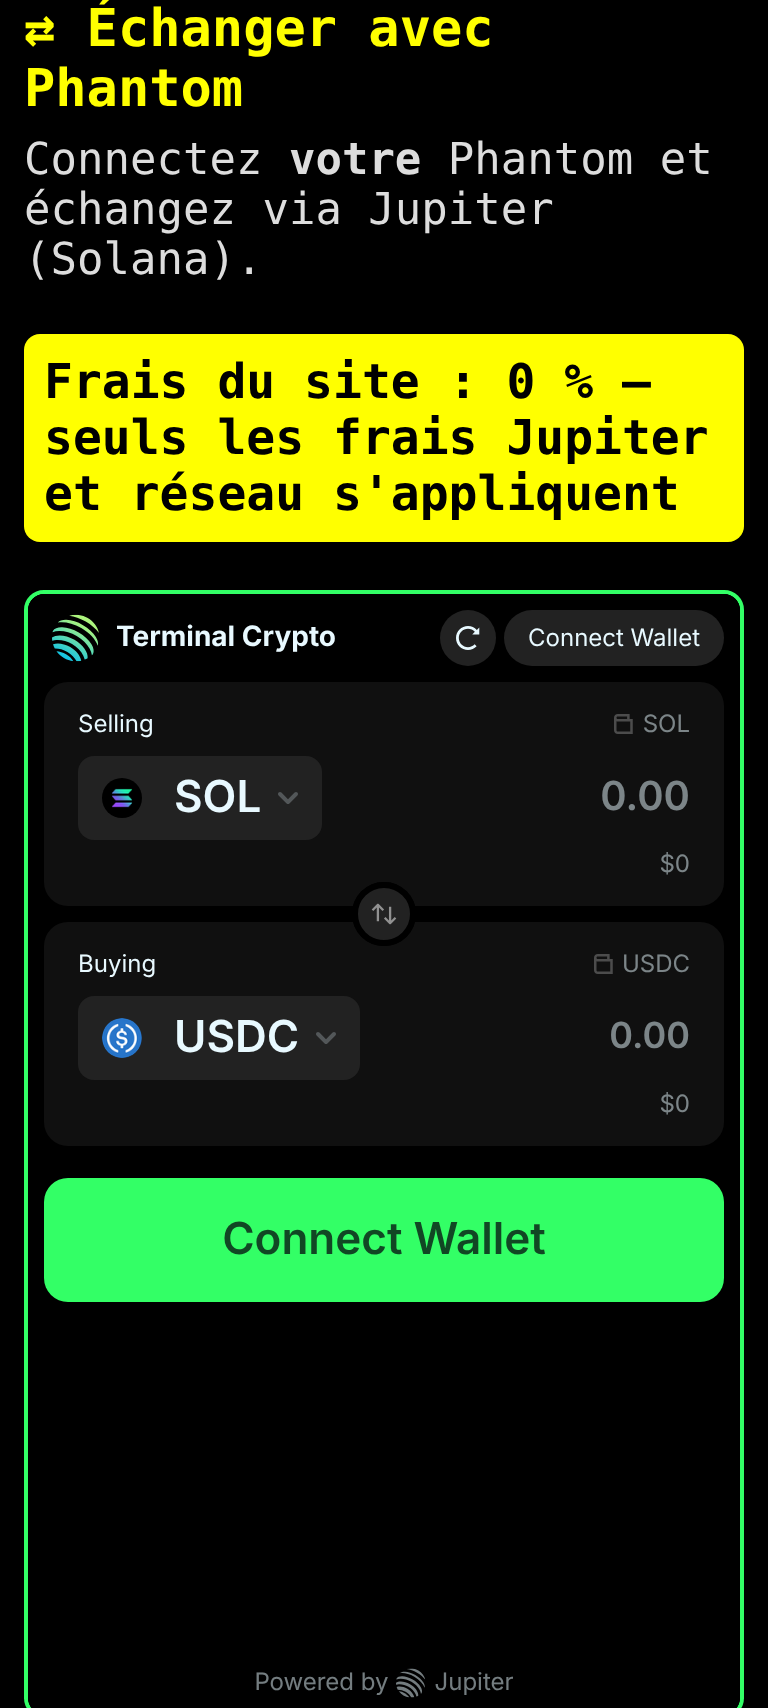
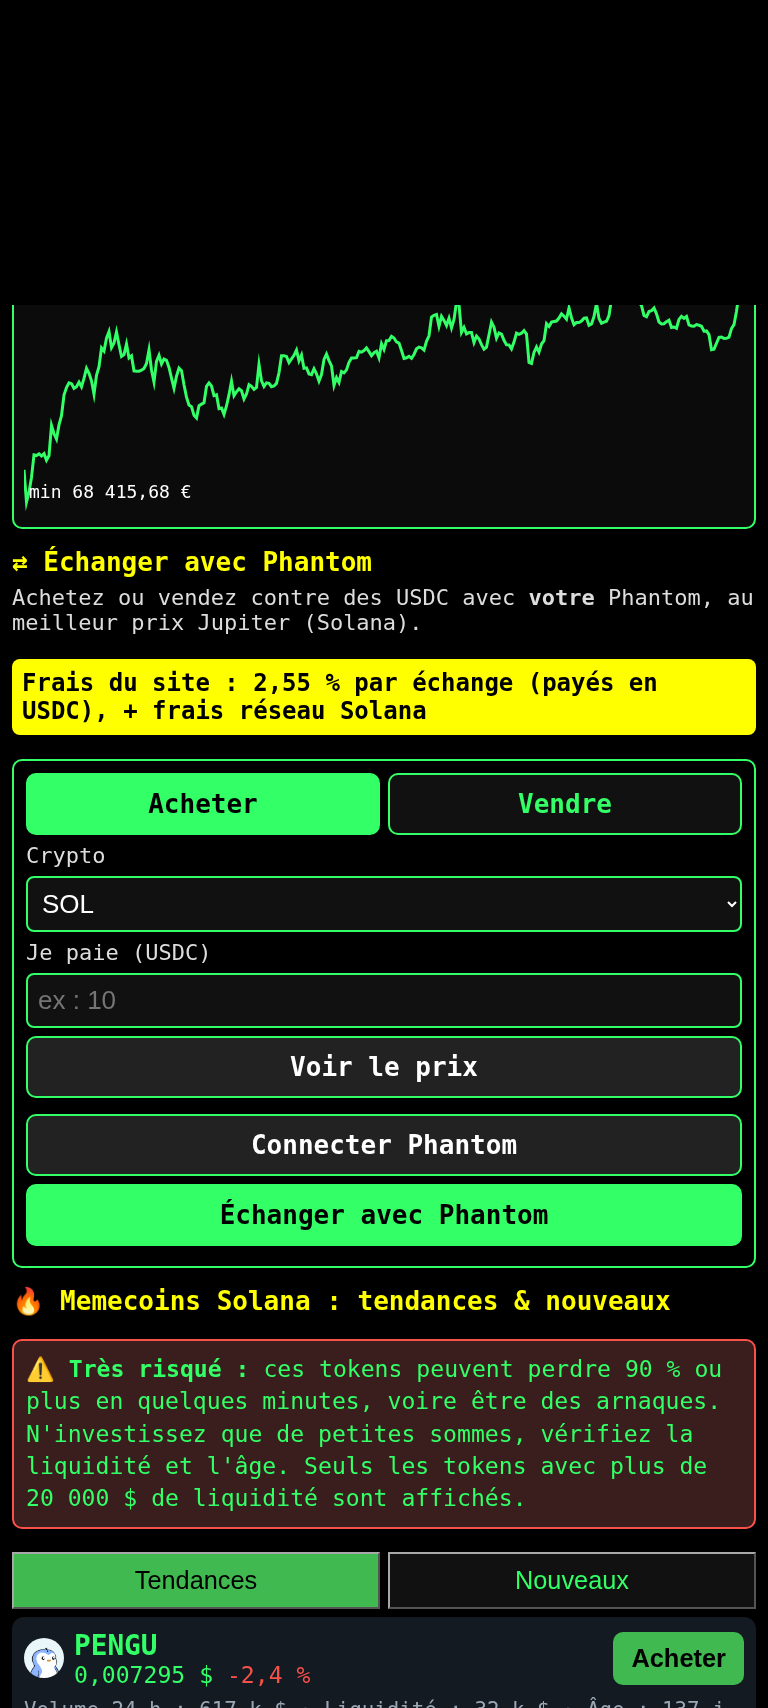
Memecoins Solana: tendances et nouveaux, achat via swap avec frais

diff --git a/memes.js b/memes.js
@@ -1,0 +1,18 @@
+(function(){
+const $=id=>document.getElementById(id),EXCL=["SOL","USDC","USDT","WSOL"];
+const fmt=n=>n>=1e9?(n/1e9).toFixed(1)+" Md $":n>=1e6?(n/1e6).toFixed(1)+" M $":n>=1e3?(n/1e3).toFixed(0)+" k $":n.toFixed(0)+" $";
+const px=n=>n<0.0001?n.toExponential(2):n.toLocaleString("fr-FR",{maximumFractionDigits:n<1?6:2});
+function age(t){const h=(Date.now()-new Date(t))/36e5;return h<1?Math.round(h*60)+" min":h<48?Math.round(h)+" h":Math.round(h/24)+" j"}
+async function charge(type){$("memeListe").textContent="Chargement…";
+ try{const d=await(await fetch(`https://api.geckoterminal.com/api/v2/networks/solana/${type}?include=base_token`)).json();
+ const tk={};(d.included||[]).forEach(t=>tk[t.id]=t.attributes);const vus=new Set();
+ const L=d.data.map(p=>({a:p.attributes,t:tk[p.relationships.base_token.data.id]})).filter(x=>x.t&&+x.a.reserve_in_usd>=20000&&!EXCL.includes(x.t.symbol.toUpperCase())&&!vus.has(x.t.address)&&vus.add(x.t.address)).slice(0,15);
+ if(!L.length){$("memeListe").textContent="Aucun token avec assez de liquidité pour l'instant.";return}
+ $("memeListe").innerHTML=L.map((x,i)=>{const c=+x.a.price_change_percentage.h24;const s=x.t.symbol.replace(/[<>"&]/g,"");
+  return `<div class="meme">${x.t.image_url&&x.t.image_url!=="missing.png"?`<img src="${x.t.image_url}" alt="">`:""}<div class="nm"><b>${s}</b><br>${px(+x.a.base_token_price_usd)} $ <span class="${c>=0?"up":"dn"}">${c>=0?"+":""}${c.toLocaleString("fr-FR",{maximumFractionDigits:1})} %</span></div><button data-i="${i}">Acheter</button><div class="st">Volume 24 h : ${fmt(+x.a.volume_usd.h24)} · Liquidité : ${fmt(+x.a.reserve_in_usd)} · Âge : ${age(x.a.pool_created_at)}</div></div>`}).join("");
+ $("memeListe").querySelectorAll("button").forEach(b=>b.onclick=()=>{const x=L[b.dataset.i];window.ajouterJeton&&window.ajouterJeton(x.t.symbol,x.t.address,x.t.decimals)});
+ }catch(e){$("memeListe").textContent="Données indisponibles, réessayez dans un instant."}}
+$("mTend").onclick=()=>{$("mTend").classList.add("on");$("mNew").classList.remove("on");charge("trending_pools")};
+$("mNew").onclick=()=>{$("mNew").classList.add("on");$("mTend").classList.remove("on");charge("new_pools")};
+charge("trending_pools");
+})();

diff --git a/index.html b/index.html
@@ -29,9 +29,13 @@
 <button id="devisBtn" class="gris">Voir le prix</button><div id="devis"></div>
 <button id="connect" class="gris">Connecter Phantom</button>
 <button id="echanger" class="vert">Échanger avec Phantom</button><div id="swapMsg"></div></div></section>
+<section id="memes"><h2>🔥 Memecoins Solana : tendances & nouveaux</h2>
+<p class="alerte">⚠ <b>Très risqué :</b> ces tokens peuvent perdre 90 % ou plus en quelques minutes, voire être des arnaques. N'investissez que de petites sommes, vérifiez la liquidité et l'âge. Seuls les tokens avec plus de 20 000 $ de liquidité sont affichés.</p>
+<div class="sens"><button id="mTend" class="on">Tendances</button><button id="mNew">Nouveaux</button></div>
+<div id="memeListe">Chargement…</div></section>
 <h2>★ Ma liste</h2><div id="liste" class="grille"></div>
 <h2>Top 20</h2><div id="top" class="grille"></div>
 <footer>Vos clés restent dans votre Phantom : le site ne voit jamais vos clés et chaque échange est signé par vous. Échanges via Jupiter. Données : CoinGecko / Binance.</footer>
 <script src="https://unpkg.com/@solana/web3.js@1.98.4/lib/index.iife.min.js" defer></script>
-<script src="swap.js?v=4" defer></script>
-<script src="app.js?v=4"></script><footer style="text-align:center;padding:12px"><a href="prix/">Cours des cryptos en euro</a></footer></body></html>
+<script src="swap.js?v=5" defer></script>
+<script src="app.js?v=4"></script><script src="memes.js?v=1" defer></script><footer style="text-align:center;padding:12px"><a href="prix/">Cours des cryptos en euro</a></footer></body></html>

diff --git a/style.css b/style.css
@@ -20,3 +20,10 @@ input{width:100%;font-size:24px;padding:12px;background:#111;color:#3f6;border:2
 #swapbox button{font-size:26px;padding:14px;border-radius:10px;border:2px solid #3f6;font-family:monospace;font-weight:bold}
 .sens{display:flex;gap:8px}.sens button{flex:1;background:#111;color:#3f6}.sens button.on{background:#3f6;color:#000}
 .gris{background:#222;color:#fff}.vert{background:#3f6;color:#000}#devis{font-size:24px;color:#fff}#swapMsg{font-size:22px;color:#3f6}#swapMsg.err{color:#f55}#swapMsg a{color:#ff0}
+
+#memes .alerte{background:#3a1d1d;border:2px solid #f85149;border-radius:10px;padding:12px;font-size:1.05em;line-height:1.4}
+.meme{display:flex;align-items:center;gap:10px;background:#141a22;border-radius:12px;padding:12px;margin:8px 0;font-size:1.05em;flex-wrap:wrap}
+.meme img{width:40px;height:40px;border-radius:50%}.meme .nm{flex:1;min-width:120px}.meme .nm b{font-size:1.2em}
+.meme .st{font-size:.9em;color:#9aa7b4;width:100%}.meme .up{color:#3fb950}.meme .dn{color:#f85149}
+.meme button{background:#3fb950;color:#000;font-weight:700;font-size:1.1em;border:0;border-radius:10px;padding:12px 18px}
+#memes .sens button{font-size:1.15em;padding:12px;flex:1}#memes .sens{display:flex;gap:8px}#memes .sens button.on{background:#3fb950;color:#000}

diff --git a/swap.js b/swap.js
@@ -20,6 +20,9 @@ $("jeton").innerHTML=JETONS.map((j,i)=>`<option value="${i}">${j[0]}</option>`).
 function majSens(){$("btnAchat").classList.toggle("on",sens==="achat");$("btnVente").classList.toggle("on",sens==="vente");
  $("lblMontant").textContent=sens==="achat"?"Je paie (USDC)":"Je vends (quantité de "+JETONS[$("jeton").value][0]+")";devis=null;$("devis").textContent="";}
 $("btnAchat").onclick=()=>{sens="achat";majSens()};$("btnVente").onclick=()=>{sens="vente";majSens()};$("jeton").onchange=majSens;majSens();
+window.ajouterJeton=function(sym,mint,dec){let i=JETONS.findIndex(j=>j[1]===mint);
+ if(i<0){JETONS.push([sym,mint,dec]);i=JETONS.length-1;$("jeton").insertAdjacentHTML("beforeend",`<option value="${i}">${sym}</option>`)}
+ $("jeton").value=i;sens="achat";majSens();if(!$("montant").value)$("montant").value="10";$("swap").scrollIntoView({behavior:"smooth"});msg("Vérifiez le prix puis échangez. Token risqué !",true)};
 function msg(t,err){$("swapMsg").textContent=t;$("swapMsg").className=err?"err":""}
 function provider(){return window.phantom&&window.phantom.solana&&window.phantom.solana.isPhantom?window.phantom.solana:null}
 $("connect").onclick=async()=>{const p=provider();
